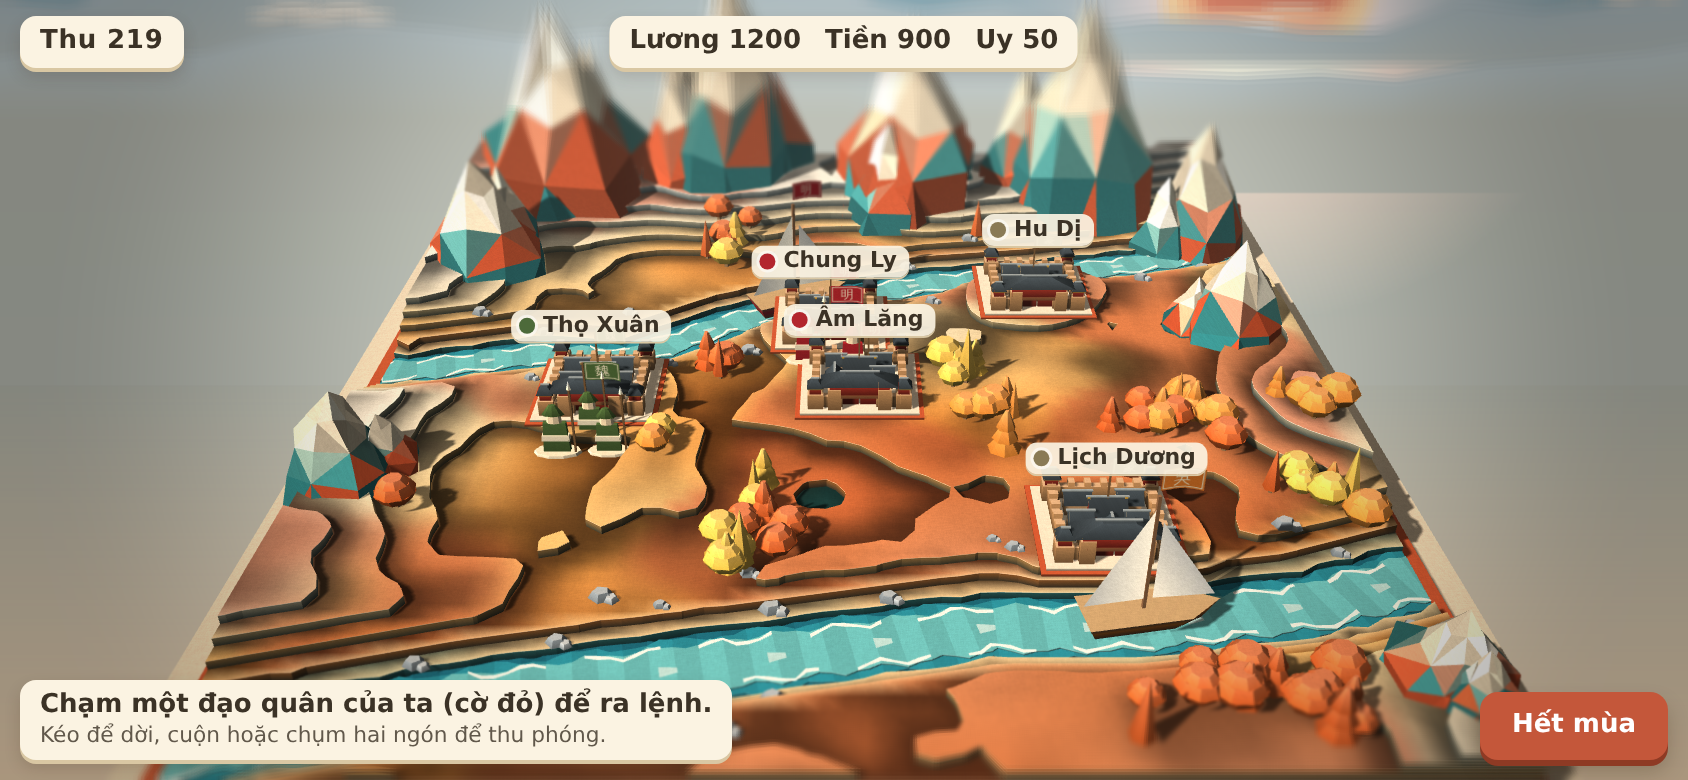
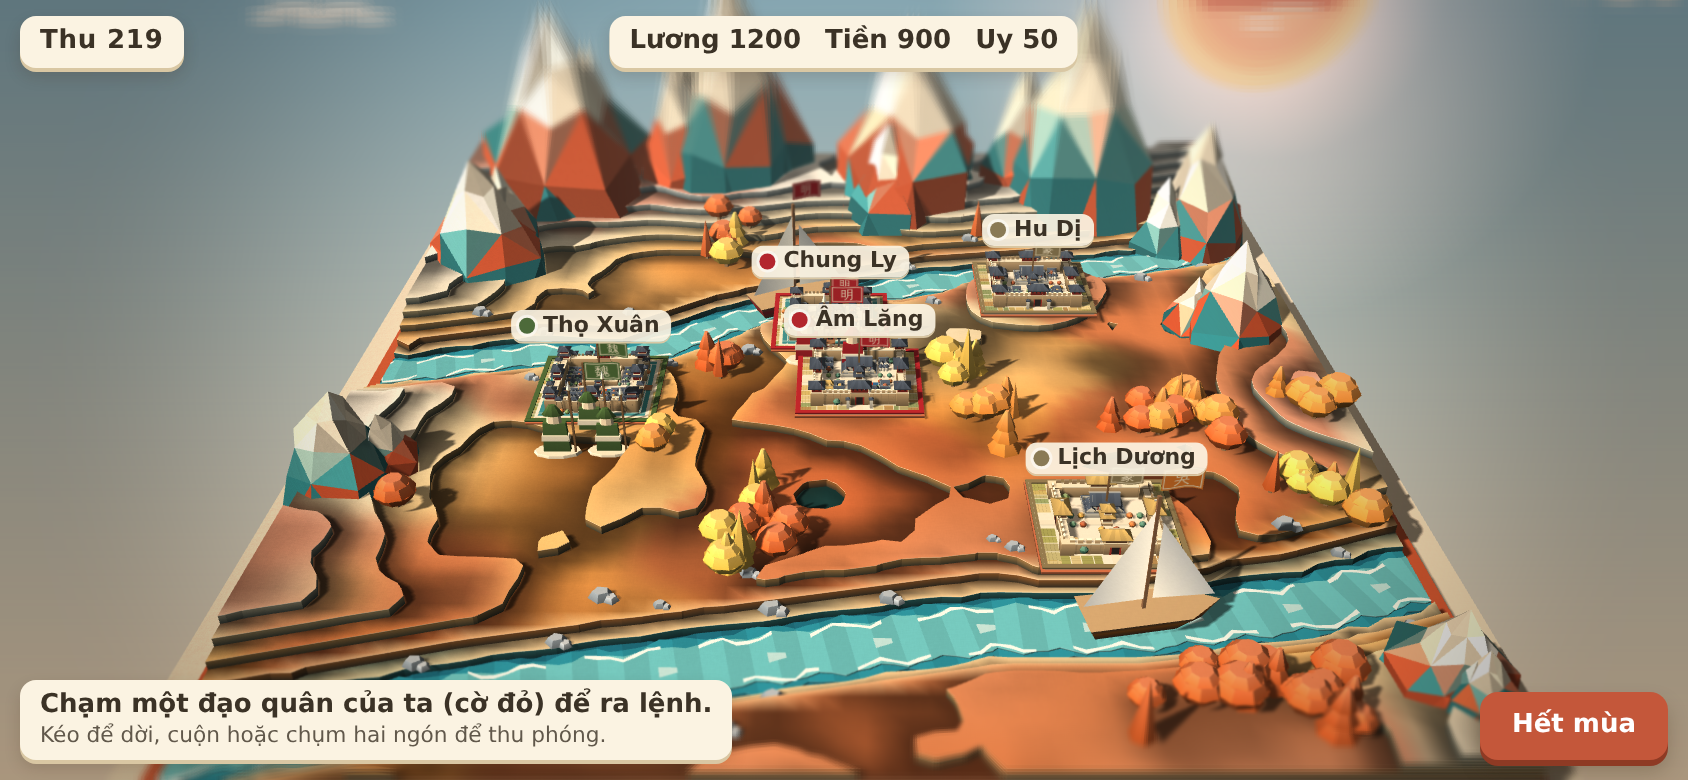
v3 paper world: round-3 shots and notes (overview mid/high, province, town vs v2, levels, Hoài Nam)
Claude-Session: https://claude.ai/code/session_01KvjPMXjNAhphQ9cKSyS6Mr

diff --git a/docs/design/v3-paper.md b/docs/design/v3-paper.md
@@ -16,3 +16,26 @@
 ## Phạm vi demo
 
 `paper.html` (trang mới, không đụng `v2.html`): sa bàn Hoài Nam thu 219 theo phong cách trên, dùng dữ liệu `data/scenario/huainan.json` (5 thành, sông, phe) và luật `EmperorsV2` để đặt quân và thành theo `V2.view`. Chơi được tối thiểu: chạm quân → chạm đích → xác nhận; nút Hết mùa; quân di chuyển trên sa bàn. Bốn mùa đổi bảng màu giấy (`&season=`).
+
+## Vòng 3 — toàn bản đồ (20/10)
+
+> Chủ dự án sau vòng 2: "ổn đấy, làm toàn bộ bản đồ theo phong cách này. Ưu tiên độ đẹp trước. Phần thành trì hơi xấu hơn bản cũ, tinh chỉnh lại."
+
+- `paper.html` mặc định là **toàn bản đồ 219** (`src/world/paper-world.js`), chỉ xem; `?map=huainan` giữ vòng chơi Hoài Nam; `?map=towns` xếp năm cấp thành cạnh nhau để duyệt.
+- Địa hình thật từ bake (`Terrain.loadBaked`, `Terrain.projection` của `terrain-real.js`, chỉ lưới thô 6 km): 3 lớp biển + 7 lớp đất theo mét (0 · 250 · 620 · 1150 · 1850 · 2750 · 3750), làm mềm trước khi cắt. Biển là các dải xanh mòng két lượn theo khoảng cách tới bờ, mép bọt trắng. Sông (Hoàng Hà, Trường Giang, Hoài, Hán và các nhánh) đào rãnh trong lớp đất, ba dải giấy chồng nhau và bọt; hồ (Động Đình, Bà Dương, Thái Hồ, Sào Hồ, Thanh Hải, Điền Trì, Đại Dã) là các tờ lồng nhau.
+- Núi: cụm đỉnh origami (vòng điểm so le nên nhiều nếp nhỏ, màu theo tầng) đặt theo địa hình thật, ưu tiên Tần Lĩnh, Đại Ba, Thái Hành, Đại Biệt, Vũ Di, Nam Lĩnh, Vũ Lăng, rìa cao nguyên, Kỳ Liên, Âm Sơn.
+- 20 châu: chia bằng chi phí đi lại từ 20 thủ phủ (dốc, độ cao, đất khô tốn hơn), mỗi châu một màu giấy riêng; biên là dải giấy nổi hai màu theo phe chủ hai bên (cùng chủ: dải kem mảnh). Chủ lấy từ `factions[].start.provinces`, chữ trên cờ từ `data/personas`.
+- Thành (`hanTown` trong `paper.js`, dùng cho cả Hoài Nam): bố cục theo `HM.town` của v2 — tường vuông theo lũy, cổng giữa mỗi mặt có lầu sơn son, lầu góc, mã diện từ lũy 3, hào từ lũy 3, phủ trị ở bắc trung tâm quay nam, tháp canh ở ngã tư, nhà sân trong các khối, chợ có mái che, kho tròn, cây; làm bằng giấy: tường bìa có răng cưa gấp và nắp sáng, mái đá phiến có nếp ngói và nóc nhạt, cửa là khe tối, đế hai lớp bìa, ruộng quanh. Cấp: thủ đô 4, thủ phủ 3, biên viễn (Hà Tây, Nam Trung, Giao, U) 2, đồn (Hạ Khẩu) 1.
+- Camera: toàn cảnh vừa khung, kéo/chụm xuống tới một châu (`&focus=<châu>&zoom=<khoảng cách>`); dải tilt-shift nhẹ ở toàn cảnh, hẹp khi đến gần; thớ giấy rõ khi đến gần.
+
+Đo (GPU phần mềm, 844×390, kể cả bóng):
+
+| Tier | Toàn cảnh: tam giác / lệnh vẽ | Cận cảnh (zoom 60): tam giác / lệnh vẽ |
+| --- | --- | --- |
+| low | 0,48 M / 48 | 0,48 M / 10 |
+| mid | 1,24 M / 75 | 1,23 M / 18 |
+| high | 1,86 M / 75 | 1,86 M / 18 |
+
+Ảnh: `prototypes/paper/world-overview-mid.png`, `world-overview-high.png`, `world-province-mid.png`, `world-town-high.png`, `towns-levels-high.png`, `town-level4-paper-high.png` cạnh `town-v2-old-high.png`, `paper-default.png` (Hoài Nam). `paper-zoom-town*.png`, `paper-winter.png` là thành vòng 2 (cũ).
+
+Còn thiếu so với ảnh mẫu: núi còn nhỏ ở toàn cảnh (ảnh mẫu là cận cảnh vài ngọn lớn); sóng biển là dải phẳng, chưa có các ngọn sóng giấy dựng đứng; đồng bằng phía nam còn nhiều đảo lớp nhỏ; nhãn châu chồng nhau ở toàn cảnh thì ẩn bớt; chưa có thuyền, mây ít; toàn bản đồ chưa nối luật chơi.
